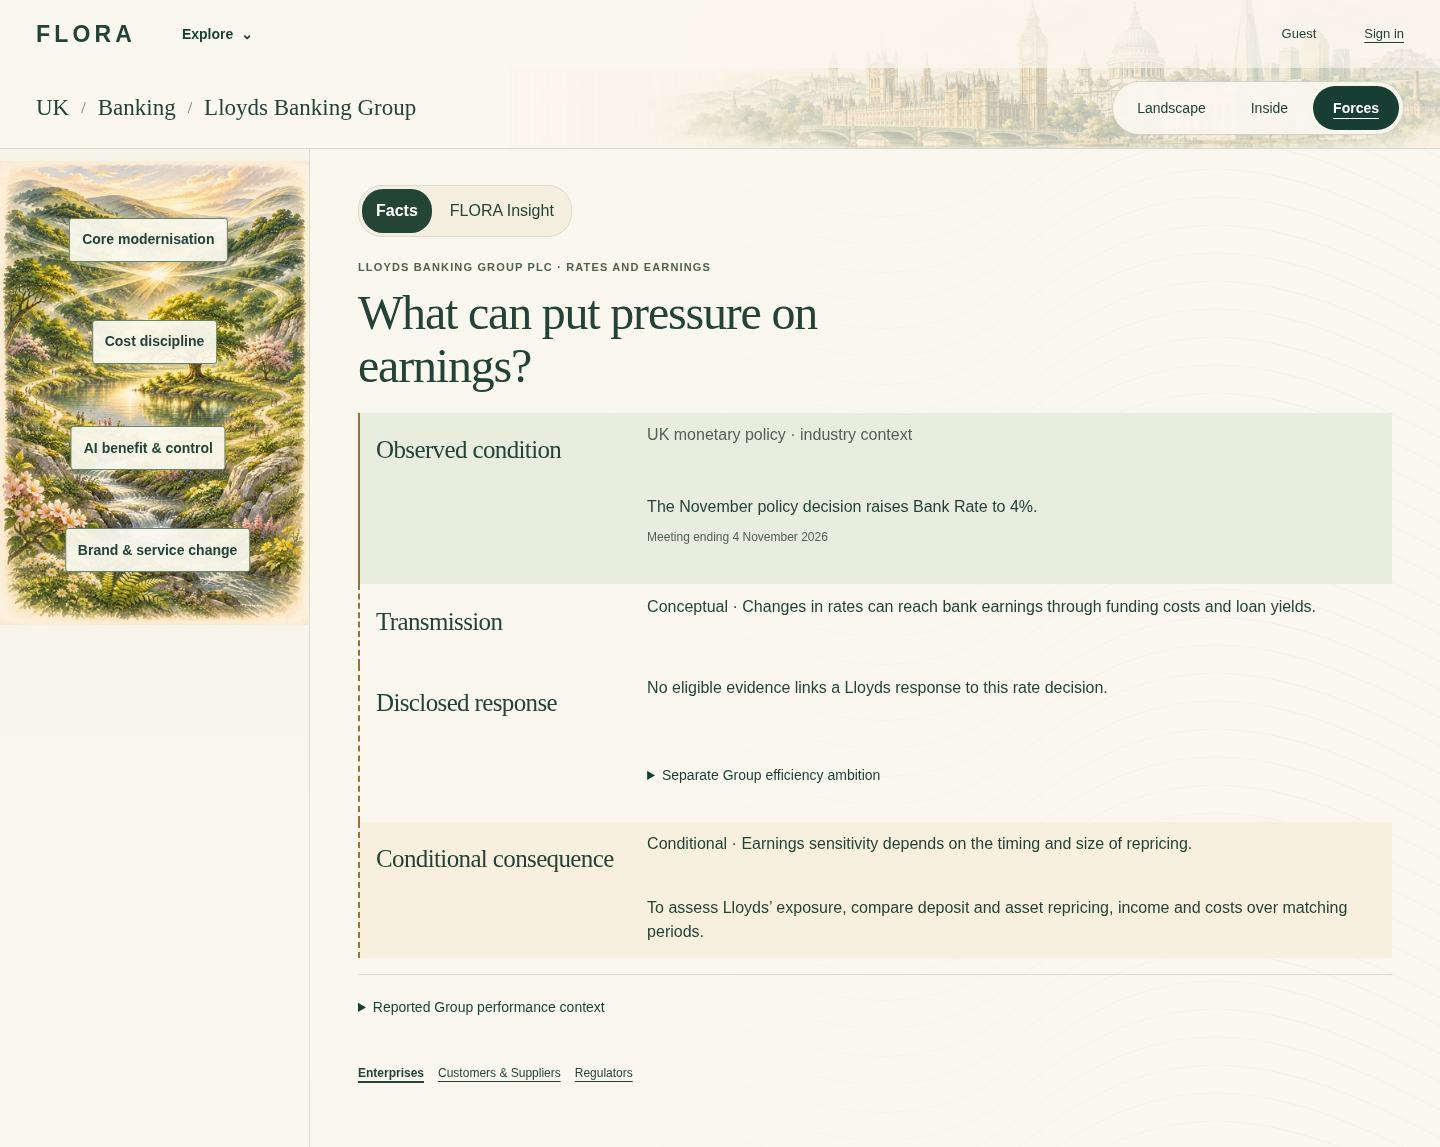
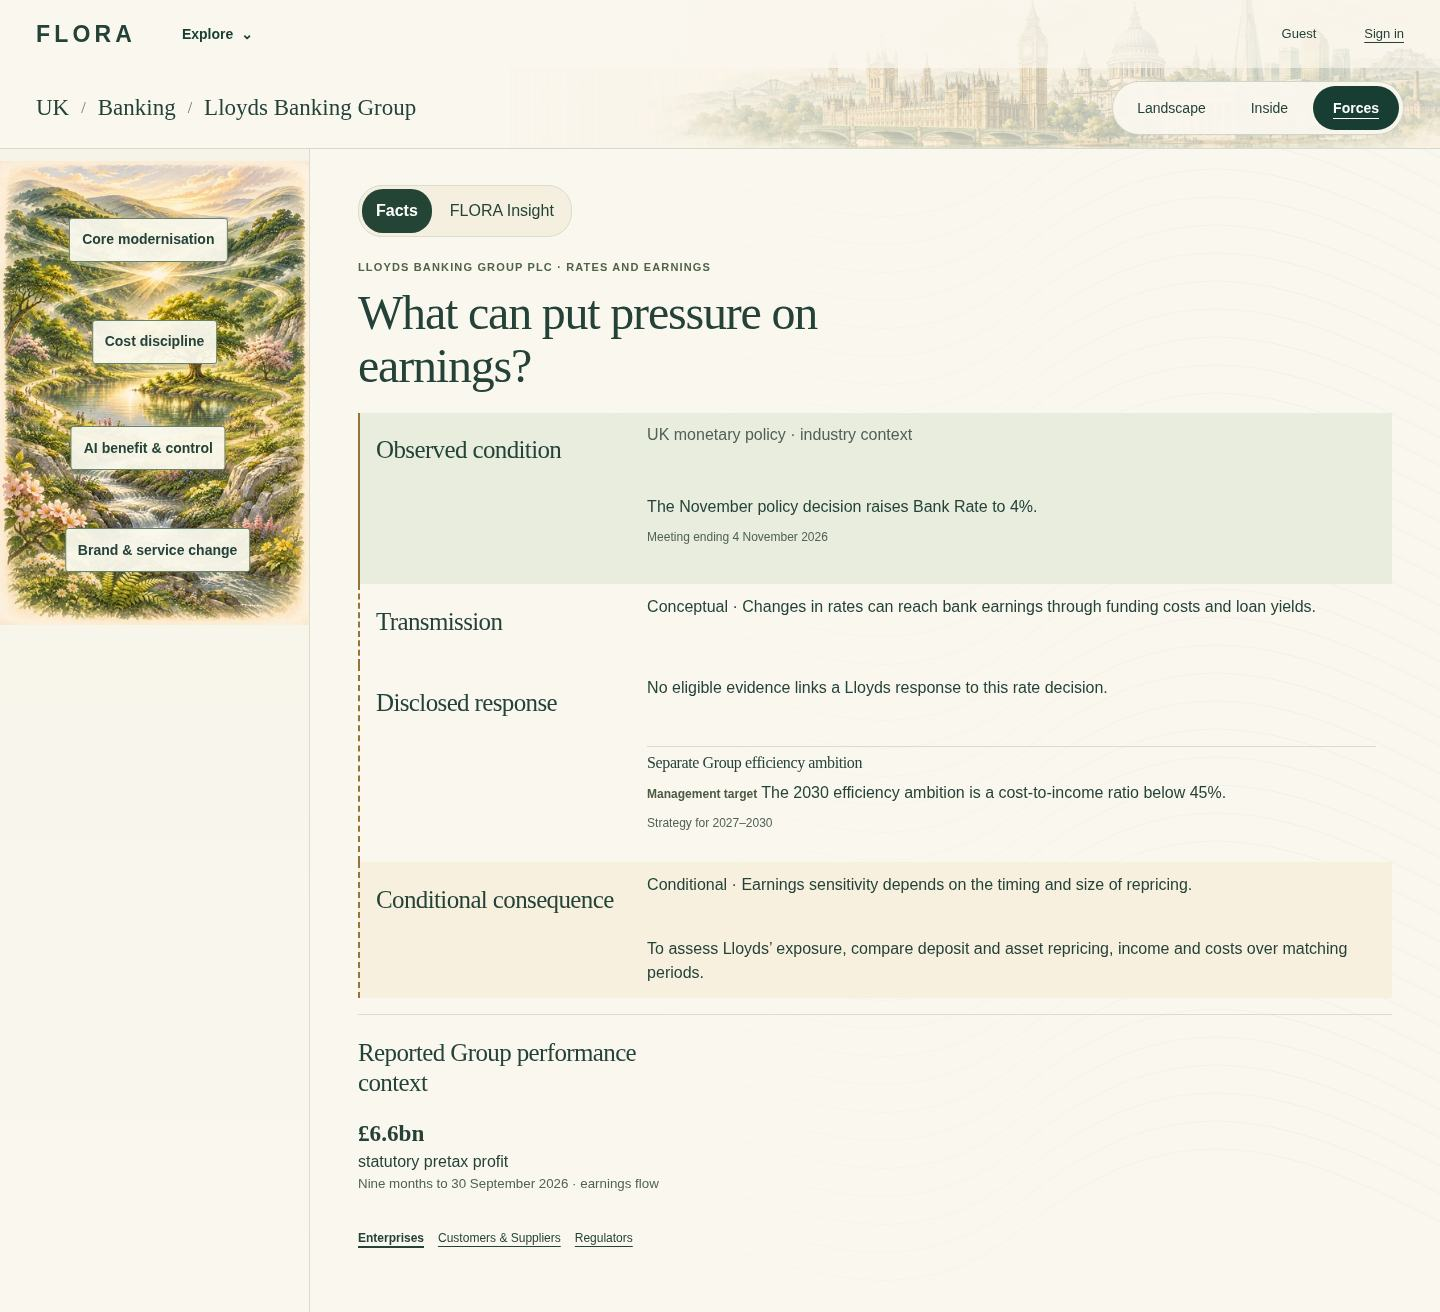
Keep public Lloyds evidence in editorial presentation

diff --git a/cios/applications/flora/visual_stream_assets/lloyds.css b/cios/applications/flora/visual_stream_assets/lloyds.css
@@ -3,7 +3,6 @@
 .lv h3 { font-size: 1em; }
 .lv p { margin: .4em 0; }
 .lv figcaption { font-weight: bold; margin-block: 0 .6em; }
-.lv summary { cursor: pointer; min-height: 44px; align-content: center; }
 .lv-system { border-top: 2px solid var(--gold); padding-top: .65em; }
 .lv-balance { display: grid; grid-template-columns: 1.35fr auto 1fr; gap: .55em; align-items: stretch; }
 .lv-balance > div, .lv-outcome { background: var(--sage); padding: .75em; border: 1px solid var(--line); }
@@ -56,3 +55,5 @@
 @media (max-width: 350px) {
   .lv-shared, .lv-rate-branches { grid-template-columns: minmax(0, 1fr); }
 }
+.lv-group-context { border-top: 1px solid var(--line); margin-top: .4em; padding-top: .4em; }
+.lv-group-context h3 { margin: 0 0 .3em; }

diff --git a/cios/applications/flora/lloyds_recovery.py b/cios/applications/flora/lloyds_recovery.py
@@ -70,8 +70,8 @@ def landscape(ctx, data, issues):
     comparison = ""
     if (stock and reference and funding_context and funding_context.semantic_type == "calculated"
             and p.eligible(funding_context)):
-        comparison = ('<details data-intelligence="funding-base"><summary>Compare the two deposit dates</summary>'
-                      + p.render(funding_context) + '</details>')
+        comparison = ('<div class="lv-separate" data-intelligence="funding-base">'
+                      + p.render(funding_context, compact=True) + '</div>')
     return (
         '<section class="lv lv-landscape"><p class="eyebrow">Lloyds Banking Group plc · consolidated Group</p>'
         '<h1>Customer funding and earnings</h1>'
@@ -156,10 +156,10 @@ def forces(ctx, data):
         '<li><h2>Observed condition</h2><p class="lv-tag">UK monetary policy · industry context</p>' + industry + '</li>'
         f'<li><h2>Transmission</h2>{transmission}</li>'
         '<li><h2>Disclosed response</h2><p>No eligible evidence links a Lloyds response to this rate decision.</p>'
-        '<details><summary>Separate Group efficiency ambition</summary>' + group + '</details></li>'
+        '<div class="lv-group-context"><h3>Separate Group efficiency ambition</h3>' + group + '</div></li>'
         f'<li><h2>Conditional consequence</h2><p>{consequence}</p>'
         '<p>To assess Lloyds’ exposure, compare deposit and asset repricing, income and costs over matching periods.</p></li>'
-        '</ol><details class="lv-separate"><summary>Reported Group performance context</summary>'
+        '</ol><div class="lv-separate"><h2>Reported Group performance context</h2>'
         + _amount(profit, "statutory pretax profit", "Nine months to 30 September 2026 · earnings flow")
-        + '</details></section>'
+        + '</div></section>'
     )

diff --git a/docs/flora-runtime/lvir-1/README.md b/docs/flora-runtime/lvir-1/README.md
@@ -42,6 +42,6 @@ Revert the bounded PR to restore the prior Main compositions and remove the four
 
 ## Browser checks
 
-Chromium rendered 60 before/after views at desktop, iPad landscape and portrait, and 390px/320px phones. Native links preserved capability and reading mode through direct navigation, reload and Back/Forward, with JavaScript disabled. Focus, keyboard activation, emulated touch, 200% CSS zoom, horizontal reflow, and printed Main text passed. Adjacent guest response status and body text matched the baseline across the sampled UK, Banking, cohort, Aviation, easyJet, Technology and Pipeline paths. Native Safari, hardware touch and an authenticated visual session were outside this browser comparison. [Browser results](browser-results.json)
+Chromium rendered 60 before/after views at desktop, iPad landscape and portrait, and 390px/320px phones. Native links preserved capability and reading mode through direct navigation, reload and Back/Forward, with JavaScript disabled. Focus, keyboard activation, emulated touch, 200% CSS zoom, text-only enlargement at all five viewport sizes, horizontal reflow, and printed Main text passed. Adjacent guest response status and body text matched the baseline across the sampled UK, Banking, cohort, Aviation, easyJet, Technology and Pipeline paths. Native Safari, hardware touch and an authenticated visual session were outside this browser comparison. [Browser results](browser-results.json)
 
 The historical owner-compatibility check uses exact pins for the two changed presentation entry points and their existing predecessor. Unexpected edits still fail that check. No regression exceptions or security baselines changed.
